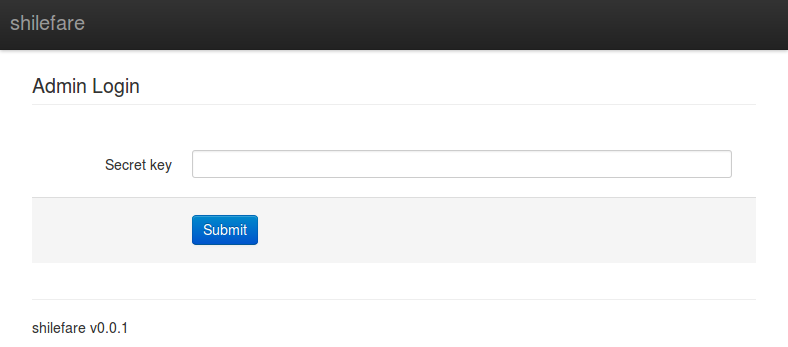
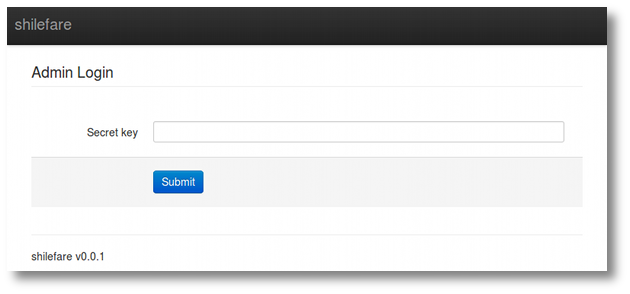
Made screenshots a bit less yo dawg

diff --git a/README.rst b/README.rst
@@ -40,7 +40,11 @@ and also generate additional download links for files.
    Secret key for this session is: aa93627c821e5fda020adc1eb3677758f0062f0c
    [23:11] shilefare server listening on http://127.0.0.1:3000
 
+Login screen:
+
 .. image:: https://github.com/insin/shilefare/raw/master/screenshots/shilefare01.png
+
+Admin screen:
 
 .. image:: https://github.com/insin/shilefare/raw/master/screenshots/shilefare02.png
 
